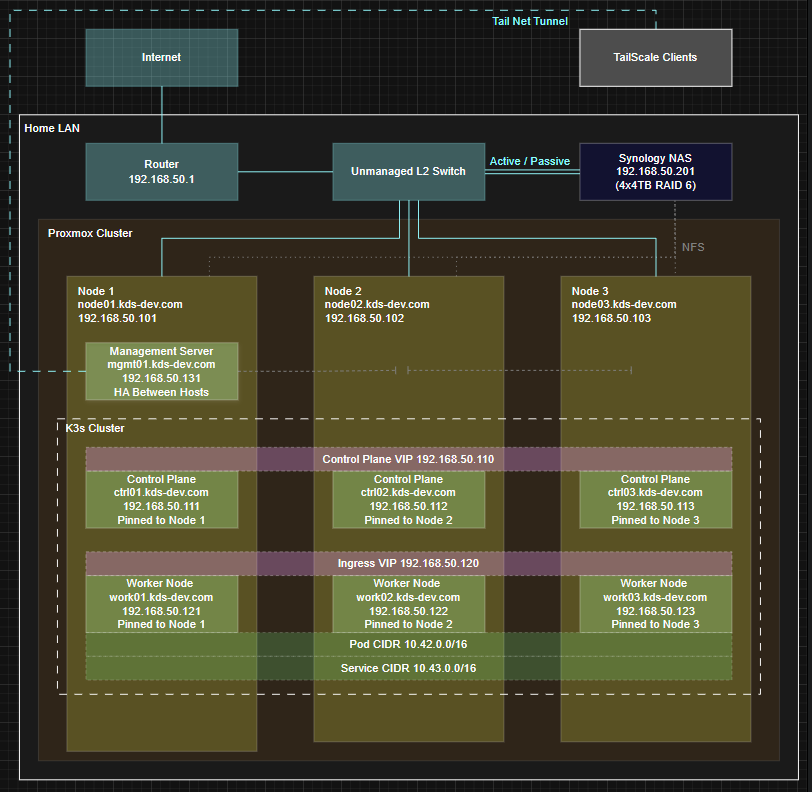
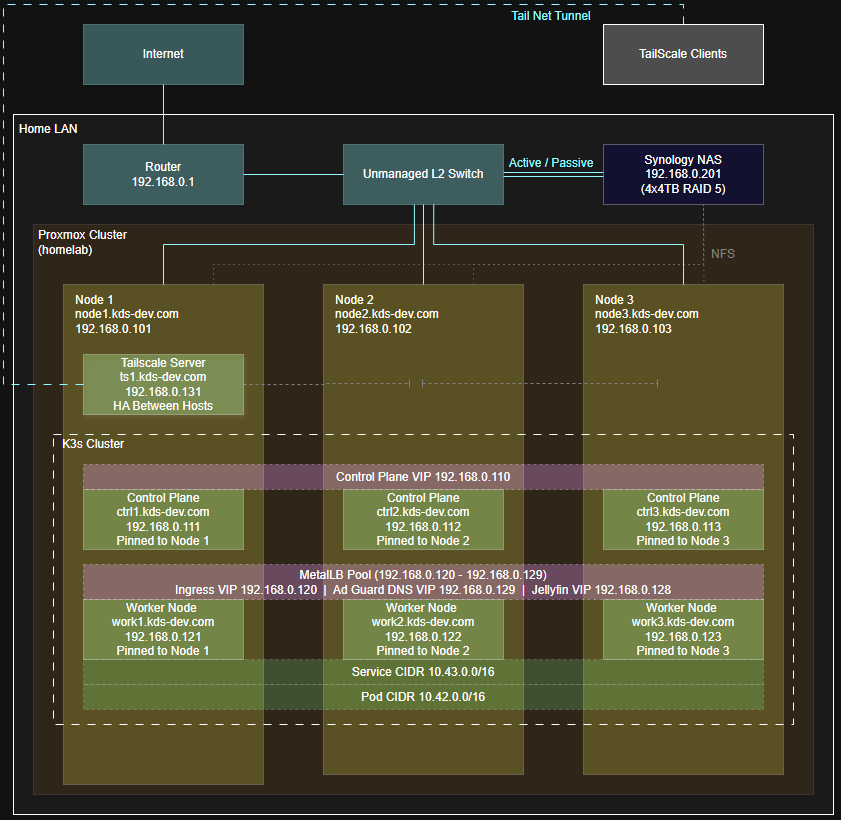
Updated ReadMe

diff --git a/README.md b/README.md
@@ -1,28 +1,30 @@
-# homelab
+# The Home Lab
 
 ### Virtualized locally hosted HA k3s cluster with NFS-backed storage
 
 ![k3s](https://img.shields.io/badge/k3s-v1.34-FFC61C?logo=k3s&logoColor=black)
-![Helm](https://img.shields.io/badge/helm-deployed-0F1689?logo=helm&logoColor=white)
 ![Proxmox](https://img.shields.io/badge/proxmox-9.1-E57000?logo=proxmox&logoColor=white)
-![Ansible](https://img.shields.io/badge/ansible-managed-EE0000?logo=ansible&logoColor=white)
 ![Terraform](https://img.shields.io/badge/terraform-provisioned-7B42BC?logo=terraform&logoColor=white)
-
-**Status: Infrastructure Complete — Application Migration In Progress**
+![Ansible](https://img.shields.io/badge/ansible-managed-EE0000?logo=ansible&logoColor=white)
+![Helm](https://img.shields.io/badge/helm-deployed-0F1689?logo=helm&logoColor=white)
 
 ![Homelab Picture](docs/assets/homelab.png)
 
 ---
 
-## Deployment & Operations
-
-For a full ordered rebuild guide covering NAS, WSL, Proxmox, Terraform, Ansible, k3s, and platform stack deployment see [docs/how-to-deploy.md](docs/how-to-deploy.md).
+- [Infrastructure and Network](#infrastructure-and-network)
+- [Services](#services)
+- [Home Lab Provisioning](#home-lab-provisioning)
+- [Monitoring / Alerting](#monitoring--alerting)
+- [Backup Process](#backup-process)
+- [Design Decisions](#design-decisions)
+- [Network Ranges](#network-ranges)
+- [Hardware](#hardware)
 
 ---
 
 ## Infrastructure and Network
-
-Three ThinkCentre M710q Tiny nodes running Proxmox VE 9.1 form the compute layer. A Synology DS418 provides NFS-backed shared storage for VM disks and application data. All seven VMs are provisioned via Terraform using the bpg/proxmox provider and configured via Ansible.
+3 Node Proxmox Cluster Running 3 K3s Control Nodes, 3 K3s Worker Nodes, and 1 Tailscale Rocky VM. All Storage is backed with the Synology NAS via NFS mounts. Control plane consists of MetalLB, Traefik, cert-manager, and NFS provisioner.
 
 [Hardware Specs](#hardware) | [Network Tables](#networks)
 
@@ -30,114 +32,118 @@ Three ThinkCentre M710q Tiny nodes running Proxmox VE 9.1 form the compute layer
 
 ---
 
-## Control Plane and Platform
-
-Three control plane VMs run k3s with embedded etcd and kube-vip providing a floating API VIP at `192.168.0.110`. Three worker VMs handle all workloads. All management tooling (kubectl, helm, Terraform, Ansible) runs in the developer's WSL environment. A dedicated Tailscale VM (`ts1`) provides persistent remote access to the LAN and survives cluster failure, preserving the recovery path.
-
-The platform layer runs on top of k3s:
-
-| Component | Role |
-|-----------|------|
-| MetalLB | Bare-metal load balancer, L2 mode, pool `.120–.129` |
-| Traefik | Ingress controller + reverse proxy, `192.168.0.120` |
-| cert-manager | Wildcard TLS via Let's Encrypt DNS-01 + Route53 |
-| NFS provisioner | Dynamic PV provisioning backed by Synology NAS |
-
----
-
 ## Services
 
-Traefik reverse proxies all HTTPS traffic through `192.168.0.120`. AdGuard Home handles LAN DNS at `192.168.0.129` with custom rewrites pointing all `*.kds-dev.com` hostnames at the Traefik VIP. All application data is stored on the NAS via NFS mounts.
+Clients are directed to MetalLB via DNS provided by the router during DHCP. MetalLB has 3 VIP's assigned, .120 for application traffic using 443 or 80, .129 for DNS traffic using 53, and 128 for jellyfin traffic on port 8096 (required as our tv does not like being reverse proxied). Traefik is in place to reverse proxy to the service IP's as well as provide TLS termination. 
 
 ![Services Diagram](docs/assets/services.png)
 
-> *Diagram pending update to reflect current deployed state*
-
 ### Deployed
 
-| Service        | Subdomain               | Purpose               |
-|----------------|-------------------------|-----------------------|
-| AdGuard Home   | adguard.kds-dev.com     | DNS + ad blocking     |
-| Vaultwarden    | vaultwarden.kds-dev.com | Password manager      |
-| Jellyfin       | jellyfin.kds-dev.com    | Media server          |
-| Immich         | immich.kds-dev.com      | Photo management      |
-| Synology Drive | share.kds-dev.com       | Family file storage   |
-| Homepage       | home.kds-dev.com        | Self-hosted dashboard |
-
-### Pending Migration from Standalone Host
-
-| Service              | Purpose                                   |
-|----------------------|-------------------------------------------|
-| Mealie               | Recipe and meal planning                  |
-| Grafana / Prometheus | Monitoring — full redeploy, not migration |
+| Service        | Subdomain               | Purpose                  |
+|----------------|-------------------------|--------------------------|
+| AdGuard Home   | adguard.kds-dev.com     | DNS + ad blocking        |
+| Vaultwarden    | vaultwarden.kds-dev.com | Password manager         |
+| Jellyfin       | jellyfin.kds-dev.com    | Media server             |
+| Immich         | immich.kds-dev.com      | Photo management         |
+| Synology Drive | share.kds-dev.com       | Family file storage      |
+| Homepage       | home.kds-dev.com        | Self-hosted dashboard    |
+| Mealie         | mealie.kds-dev.com      | Recipe and meal planning |
 
 ---
 
-## Storage
+## Home Lab Provisioning
+NAS is manually configured following [NAS Config](/docs/nas-setup.md)
 
-Proxmox is installed on each node's local SSD. All VM disks are stored on the Synology NAS via NFS (`vm-disks` export) so any node can run any VM. Application data lives under the `srv` NFS export with a subdirectory per application. The NAS itself runs RAID 5 across four 4TB disks with active/standby bonded NICs.
+Proxmox is manually installed on each physical server and API Key generated. 
+
+Everything else is infrastructure as code and deployed via terraform, ansible, and helm.
+
+---
+
+[Terraform](/terraform/)
+
+  - Deploys 3 K3s Control Plane VM's
+  - Deploys 3 K3s Worker VM's
+  - Deploys 1 Tailscale VM
+---
+
+[Ansible](/ansible/)
+
+  - Finishes Proxmox Configurations *(VM HA Rules, Storage, SSH Key Auth, etc.)*
+  - Baseline Rocky Config *(Time, Hostname, Disabled Password Auth, SSH Key Auth, etc.)*
+  - Creates & Configures K3s Cluster *(Creates Kube VIP, Firewall Rules, etcd, etc.)*
+  - Configures Tailscale VM *(Install required packages, etc)*
+---
+
+[Helm](/helm/)
+  - Deploys Infrastructure services MetalLB, Traefik, NFS Provisioner, Cert Manager
+  - Issues TLS Certificate
+  - Deploys Applications onto K3s Cluster
+
+---
+
+## Monitoring / Alerting
+> Grafana/Prometheus stack deployment in progress 
+
+---
+
+## Backup Process
+Backups are designed to be as simple as possible and are conducted according to the table below. 
+
+More information regarding backups [Backup Strategy](/backups/ReadMe.md) 
+
+| Backup      | Type     | Frequency                 | Retention         | Notes                                                   |
+|-------------|----------|---------------------------|-------------------|---------------------------------------------------------|
+| Application | On-Site  | Thursday (1–5am)          | 35 Days           | Service scaled to 0 for atomic operations               |
+| Application | Off-Site | 1st Saturday of Month     | 180 Days          | Latest on-site backup copied to AWS S3 Glacier          |
+| Application | Offline  | Quarterly                 | 2 Recovery Points | Copied to external SSD                                  |
+| Secrets     | On-Site  | Hourly (change-triggered) | 5 Recovery Points | Only copies if hash of .env has changed                 |
+| Secrets     | Off-Site | Sunday (1am)              | 5 AWS Versions    | Only copies if hash of .env has changed                 |
+| Secrets     | Offline  | Quarterly                 | 5 Recovery Points | Copied to external SSD                                  |
+| SSH Keys    | On-Site  | Manual                    | 2 Recovery Points | Copied to NAS manually                                  |
+| SSH Keys    | Off-Site | Manual                    | 2 Recovery Points | Stored in AWS Secrets Manager                           |
+| SSH Keys    | Offline  | Quarterly                 | 2 Recovery Points | Copied to external SSD                                  |
 
 ---
 
 ## Design Decisions
 
-**Dedicated Tailscale VM (ts1)**
-Runs the Tailscale daemon and advertises `192.168.0.0/21` to the tailnet as a VM under Proxmox HA rather than a Kubernetes pod. If k3s is broken, ts1 is the recovery path — it cannot depend on the thing it recovers.
-
-**k3s on Proxmox VMs rather than bare metal**
-Running k3s inside VMs provides clean role separation without additional hardware, VM-level snapshots before risky changes, and consistent OS images via cloud-init templating. Three control plane VMs maintain etcd quorum independently of the three worker VMs.
-
-**Control plane and worker VMs pinned to their respective hosts**
-One control plane and one worker are always present on each physical node. Without pinning the Proxmox scheduler could place two control plane VMs on the same node — losing that node would drop two etcd members simultaneously and break quorum.
-
-**IP block segmentation as a VLAN substitute**
-Without VLAN support on the current router, IP ranges within the /24 are segmented by role. Each block reserves the .x0 address for virtual IPs or floating addresses, with .x1–.x3 corresponding to which physical node a workload runs on. This makes the network self-documenting and provides a clear path to VLAN segmentation if router hardware is upgraded.
-
-**k3s internal networks isolated from LAN**
-The pod network (10.42.0.0/16) is a flannel VXLAN overlay tunneled between worker VMs — pods get ephemeral IPs the LAN never sees. The service network (10.43.0.0/16) exists only as iptables rules maintained by kube-proxy and is never transmitted on the wire. All external access is funneled through MetalLB service IPs in the `.120–.129` range.
+| Choice                   | Reason                                                                                                                                             |
+|--------------------------|----------------------------------------------------------------------------------------------------------------------------------------------------|
+| Dedicated Tailscale VM   | Allows for DR Access, Maintains HA via Proxmox, and is persistent to stay in Tailscale's free tier                                                 |
+| K3s via Proxmox          | Allows for snapshots, easy provisioning / reprovisioning, allows for 3 control plane and 3 worker VM's                                             |
+| Flat Networking          | A single /24 is in use due to my home router not supporting VLAN's for true separation of concerns                                                 |
+| K3s Networking Isolated  | These networks do not need to be exposed as access is managed via VXLAN and iptables maintained by kube-proxy and funneled through MetalLB         |
+| All Secrets in .env      | This was done for ease of backup, restore, and getting up and running. This is an anti-practice but this is a home-lab so I have accepted the risk |
+| Single Points of Failure | The NAS, Switch, Router, Modem, and Power are all single points of failure. This is an acceptable risk due to practical and budgetary limitations. |
 
 ---
 
-## Known Limitations
+## Network Ranges
 
-1. **Flat /24 network** — current router does not support VLANs, so control plane, storage, and workload traffic share the same L2 segment
-2. **NAS is a single point of failure for storage** — mitigated by bonded NICs and RAID 5, but a NAS failure takes down both VM disks and application data
-3. **Tailscale free tier** — ts1 holds one of three device slots; Proxmox HA ensures it restarts on a surviving node if its host fails
-
----
-
-## Networks
-
-### IP Ranges — 192.168.0.0/21
-
-| Range | Role |
-|-------|------|
-| .1 | Default gateway |
-| .2–.99 | DHCP clients |
-| .100–.109 | Physical nodes (.101, .102, .103) |
-| .110–.119 | Control plane VMs (.110 VIP, .111–.113 VMs) |
-| .120–.129 | MetalLB pool (.120 Traefik, .121–.123 worker VMs, .128 Jellyfin direct, .129 AdGuard DNS) |
-| .130–.139 | Infrastructure VMs (.131 ts1 — Tailscale subnet router) |
-| .200–.209 | Storage (.201 Synology NAS) |
-
-### k3s Internal Networks
-
-| Network | Range | Purpose |
-|---------|-------|---------|
-| Pod CIDR | 10.42.0.0/16 | Flannel VXLAN overlay — ephemeral pod IPs, not routable on LAN |
-| Service CIDR | 10.43.0.0/16 | kube-proxy iptables rules — virtual only, never on wire |
-| MetalLB pool | .120–.129 | Only cluster IPs visible on LAN — single entry point |
+| Range              | Role                                                                                      |
+|--------------------|-------------------------------------------------------------------------------------------|
+| 10.42.0.0/16       | Flannel VXLAN *(Pod Networking)*                                                          |
+| 10.43.0.0/16       | Kube-Proxy IP Tables *(Service Networking)*                                               |
+| 192.168.0.1        | Default gateway                                                                           |
+| 192.168.0.2–.99    | DHCP clients                                                                              |
+| 192.168.0.100–.109 | Physical nodes (.101, .102, .103)                                                         |
+| 192.168.0.110–.119 | Control plane VMs (.110 VIP, .111–.113 VMs)                                               |
+| 192.168.0.120–.129 | MetalLB pool (.120 Traefik, .121–.123 worker VMs, .128 Jellyfin direct, .129 AdGuard DNS) |
+| 192.168.0.130–.139 | Infrastructure VMs (.131 ts1 — Tailscale subnet router)                                   |
+| 192.168.0.200–.209 | Storage (.201 Synology NAS)                                                               |
 
 ---
 
 ## Hardware
 
-| Type | Role | Model | Notes |
-|------|------|-------|-------|
+| Type    | Role     | Model                  | Notes                |
+|---------|----------|------------------------|----------------------|
 | Compute | k3s node | ThinkCentre M710q Tiny | Intel i5 / 16GB DDR4 |
 | Compute | k3s node | ThinkCentre M710q Tiny | Intel i5 / 16GB DDR4 |
 | Compute | k3s node | ThinkCentre M710q Tiny | Intel i5 / 16GB DDR4 |
-| Storage | NAS | Synology DS418 | 4x 4TB, RAID 5 |
-| Network | Switch | Netgear GS308 | 8-port unmanaged |
-| Network | Router | ASUS RT-AX82U | Home router |
-| Network | Modem | ISP provided | — |
+| Storage | NAS      | Synology DS418         | 4x 4TB, RAID 5       |
+| Network | Switch   | Netgear GS308          | 8-port unmanaged     |
+| Network | Router   | EERO Pro 7             | ISP Provided         |
+| Network | Modem    | --                     | ISP Provided         |
